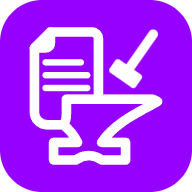
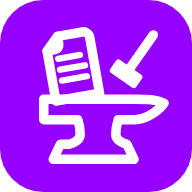
Redraw the mark so the anvil stops reading as a toilet
The old mark merged the page into the anvil vertically - tall box over a
waisted, scalloped pedestal - and that stack read as a toilet: tank, bowl,
foot. The fix is compositional, not detailing: the anvil is now its own
complete, centred London-pattern form (heel, level horn, waist, splayed
feet) and the page is a separate sheet leaning on its face.

The face top stays at y=100 and the strike contact at (134,94), so every
pose, keyframe and spark in the splash and BrandMarkLoader carries over
unchanged; the hammer asset is untouched. The page rides the anvil layer,
so the jolt carries it. One spark is nudged clear of the page's lifted
corner. The small mark now shares the full anvil contour - the waist and
feet survive the heavy stroke, verified at 16/20/24/32. All raster icons
(web icons, favicon, README logo) are regenerated from the new art.

diff --git a/web/index.html b/web/index.html
@@ -154,8 +154,9 @@
          the end face on the anvil while the haft stays visibly diagonal, which
          is what makes the head read as the thing doing the work.
 
-       Contact lands at (134,94): the middle of the strip of anvil face the page
-       doesn't cover.
+       Contact lands at (134,94), on the strip of anvil face between the page's
+       lifted corner and the horn root — the numbers predate the anvil redraw,
+       which kept the face top at y=100 precisely so they could survive it.
 
        The rotation is about the haft tip, but the haft tip is not a fixed
        point — a swing hinged on one pivot reads as a lever being worked, not
@@ -318,16 +319,18 @@
            stroke-width="12" stroke-linecap="round" stroke-linejoin="round"
            role="img" aria-label="CVForge">
         <g class="splash-anvil">
-          <path d="M20 36 L40 16 H92 A8 8 0 0 1 100 24 V100 H168 L174 103
-                   C150 116 120 130 104 154
-                   H134 V176 H104 A26 26 0 0 0 72 176 H44 V154 H74
-                   C70 146 64 138 56 132 H36 A16 16 0 0 1 20 116 Z"/>
-          <path d="M40 16 V30 A6 6 0 0 1 34 36 H20"/>
-          <path d="M100 100 H60 V118 C60 126 58 130 56 132"/>
-          <g stroke-width="8">
-            <path d="M34 54 H78"/>
-            <path d="M34 70 H86"/>
-            <path d="M34 86 H86"/>
+          <path d="M30 100 H146 C160 100 172 100 182 105 C174 116 158 126 145 126 H124
+                   C122 133 121 138 121 144 C121 151 128 155 135 157
+                   L144 176 H42 L51 157 H62
+                   C69 155 76 151 76 144 C76 137 75 132 73 126 H30 Z"/>
+          <g transform="translate(66 58) rotate(-10)">
+            <path d="M-28 -24 L-12 -40 H20 A8 8 0 0 1 28 -32 V40 H-28 Z"/>
+            <path d="M-12 -40 V-30 A6 6 0 0 1 -18 -24 H-28"/>
+            <g stroke-width="8">
+              <path d="M-16 -12 H12"/>
+              <path d="M-16 2 H16"/>
+              <path d="M-16 16 H16"/>
+            </g>
           </g>
         </g>
         <g class="splash-hammer">
@@ -338,11 +341,12 @@
           </g>
         </g>
         <!-- Struck off the contact corner at (134,94), placed clear of the
-             head's own silhouette so they are not hidden behind it. -->
+             head's own silhouette so they are not hidden behind it — and, on
+             the left pair, clear of the page's lifted corner at (101,93). -->
         <g class="splash-sparks" stroke="#9600FF" stroke-width="8"
            stroke-linecap="round">
           <path d="M126 99 L112 101"/>
-          <path d="M120 95 L106 89"/>
+          <path d="M122 93 L110 85"/>
           <path d="M146 99 L160 101"/>
           <path d="M152 96 L166 91"/>
         </g>

diff --git a/lib/ui/widgets/common/brand_mark_loader/brand_mark_loader.dart b/lib/ui/widgets/common/brand_mark_loader/brand_mark_loader.dart
@@ -61,8 +61,10 @@ const _viewBoxOrigin = -20.0;
 /// about this point plus a translation of it.
 const _pivot = Offset(168, 19);
 
-/// Where the head's end face meets the anvil: the middle of the strip of face
-/// the page doesn't cover. The sparks are struck from here.
+/// Where the head's end face meets the anvil: on the strip of face between
+/// the page's lifted corner and the horn root. The sparks are struck from
+/// here. The value predates the anvil redraw, which kept the face top at
+/// y=100 precisely so this — and every pose below — could survive it.
 const _contact = Offset(134, 94);
 
 /// Rotation is on top of the +35deg the hammer already carries in the asset,
@@ -318,11 +320,12 @@ const _hammerAsset = 'assets/brand/cvforge-mark-hammer.svg';
 
 /// The four sparks struck off the contact corner, in mark coordinates. They
 /// sit clear of the head's own silhouette at the moment of impact, so they are
-/// not hidden behind it. Painted rather than shipped as a third asset: they
+/// not hidden behind it — and, on the left pair, clear of the page's lifted
+/// corner at (101,93). Painted rather than shipped as a third asset: they
 /// are four straight lines, not brand art.
 const _sparks = <List<double>>[
   [126, 99, 112, 101],
-  [120, 95, 106, 89],
+  [122, 93, 110, 85],
   [146, 99, 160, 101],
   [152, 96, 166, 91],
 ];

diff --git a/lib/ui/widgets/common/brand_mark/brand_mark.dart b/lib/ui/widgets/common/brand_mark/brand_mark.dart
@@ -1,7 +1,7 @@
 import 'package:flutter/material.dart';
 import 'package:flutter_svg/flutter_svg.dart';
 
-/// The CVForge mark — the page-into-anvil logo — for use inside the app.
+/// The CVForge mark — the page-on-anvil logo — for use inside the app.
 ///
 /// Deliberately not an `Icon`: this is a brand graphic, not part of the
 /// icon set, so it sizes on its own scale rather than
@@ -10,9 +10,8 @@ import 'package:flutter_svg/flutter_svg.dart';
 ///
 /// The mark ships in two optical sizes and this widget picks between them,
 /// which is the whole point of there being two: below
-/// [_smallMarkThreshold] the detail mark's hammer, base scallop and
-/// lower-left pocket close into a blob, so the simplified mark is used
-/// instead. Call sites should not reach for the asset paths directly —
+/// [_smallMarkThreshold] the detail mark's hammer and third page rule
+/// close into a blob, so the simplified mark is used instead. Call sites should not reach for the asset paths directly —
 /// that is how the two marks end up used at the wrong sizes.
 ///
 /// Decorative by default. Every current call site sits next to text that
